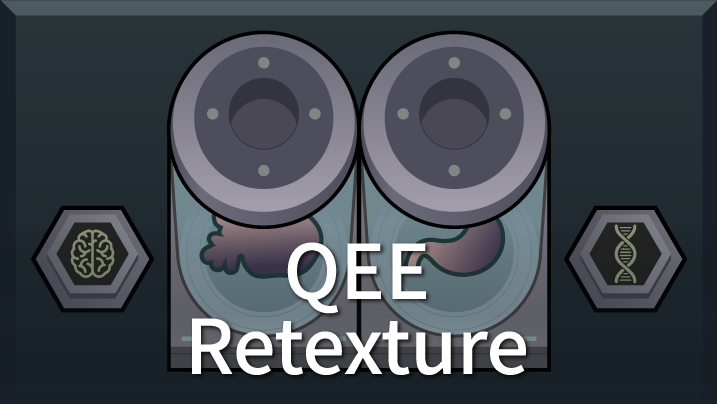
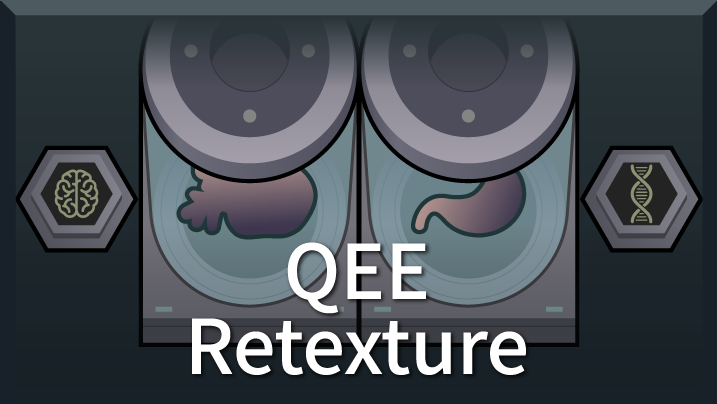
add bioreactor retexture

diff --git a/_posts/2021-10-03-BioReactorRetexture.md b/_posts/2021-10-03-BioReactorRetexture.md
@@ -1,0 +1,9 @@
+---
+title: "BioReactor Retexture"
+date: 2021-10-03
+category: [rimworld, mod]
+image: "/assets/images/rimworld/BioReactor.webp"
+---
+<img src="/assets/images/rimworld/BioReactor.gif" alt="QEE" width="597" height="587" loading="lazy">
+
+[https://steamcommunity.com/sharedfiles/filedetails/?id=2618249368](https://steamcommunity.com/sharedfiles/filedetails/?id=2618249368)
